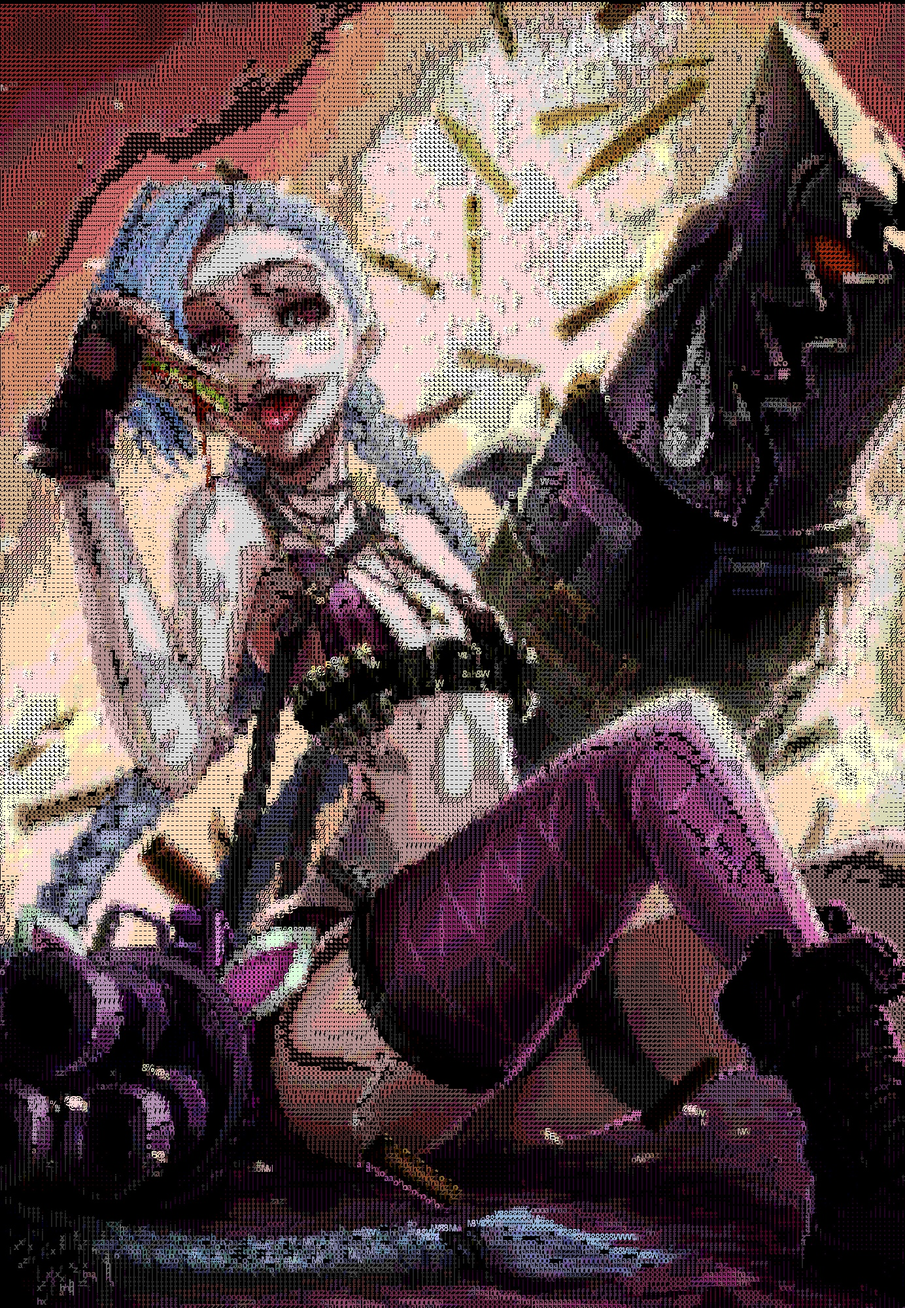
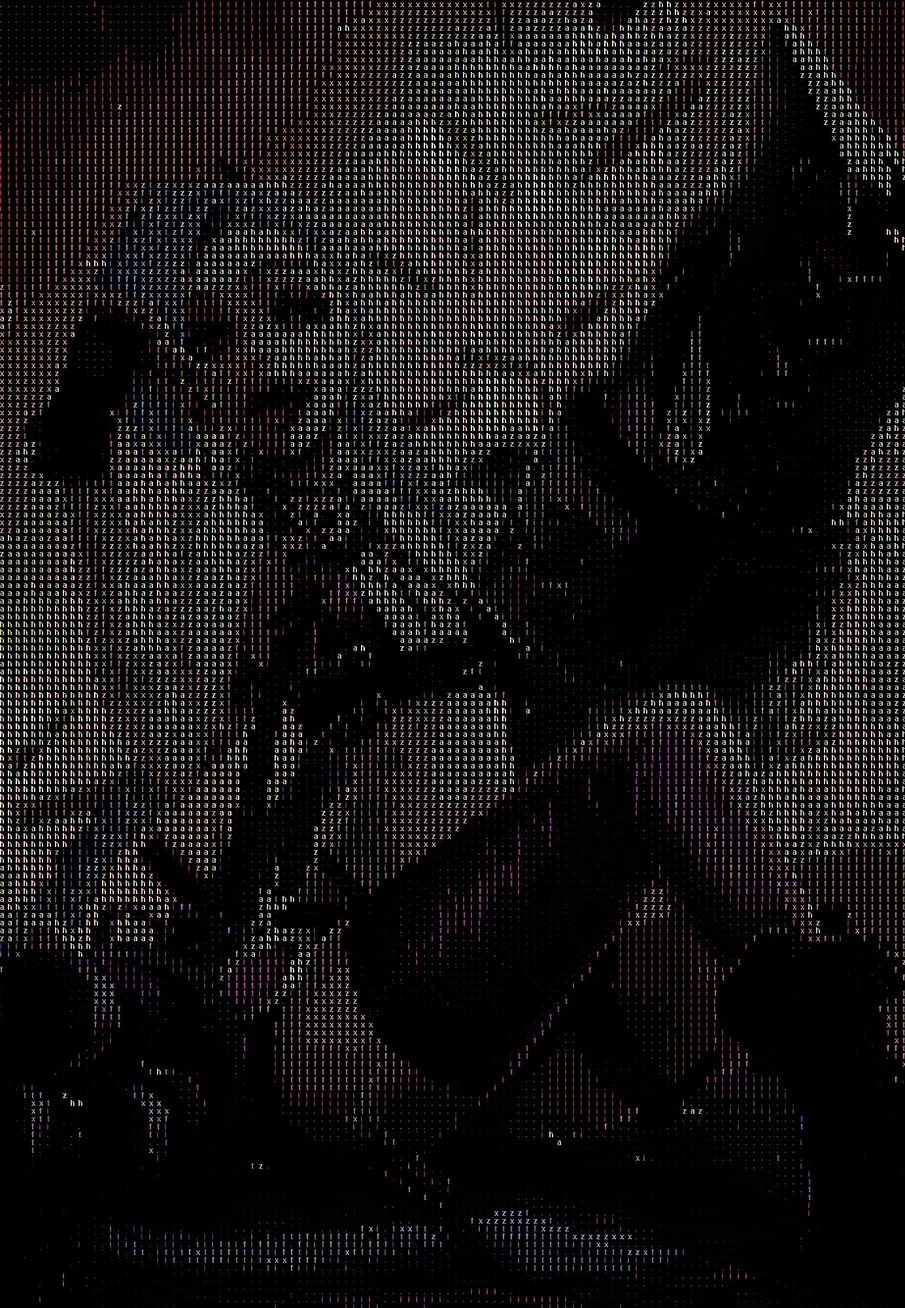
промежуточный коммит

diff --git a/main.py b/main.py
@@ -3,6 +3,7 @@ import argparse
 import cv2
 import os.path
 import pygame as pg
+import os
 from screeninfo import get_monitors
 
 from converter_settings import ConverterSettings
@@ -25,8 +26,23 @@ def transform_picture_to_show(image_res):
     return cv2.resize(image_res, screen_size, interpolation=cv2.INTER_CUBIC)
 
 
+def open_ansi(path: str):
+    if os.name == 'nt':
+        from ctypes import windll
+        k = windll.kernel32
+        k.SetConsoleMode(k.GetStdHandle(-11), 7)
+    with open(path, 'r', encoding='utf8') as image:
+        im = image.readlines()
+        for i in im:
+            print(i)
+
+
 def argparse_init(ap):
     group = ap.add_mutually_exclusive_group()
+    ap.add_argument('-o',
+                    '--open',
+                    required=False,
+                    help='Открыть ansi art')
     ap.add_argument(
         '-i',
         '--image',
@@ -73,6 +89,8 @@ if __name__ == '__main__':
         ConverterSettings().set_size(args.size)
     elif args.reset:
         ConverterSettings().reset_settings()
+    elif args.open:
+        open_ansi(args.open)
     else:
         if not os.path.exists(args.image):
             print(f'Файл {args.image} не существует')
@@ -82,8 +100,11 @@ if __name__ == '__main__':
         font = pg.font.SysFont(settings['font'], settings['font size'], bold=True)
         size = settings['picture size']
         image_res = convert_to_asciiart(image, settings['ascii table'], settings['color level'], font,
-                                        int(settings['font size'] * 0.6), tuple(settings['picture size']))
+                                        int(settings['font size']), tuple(settings['picture size']))
         save_image(image_res, args.path)
         cv2.imshow('after', transform_picture_to_show(image))
         cv2.imshow('before', transform_picture_to_show(image_res))
         cv2.waitKey(0)
+
+# чб картинка
+# .ansi возможность просматривать
